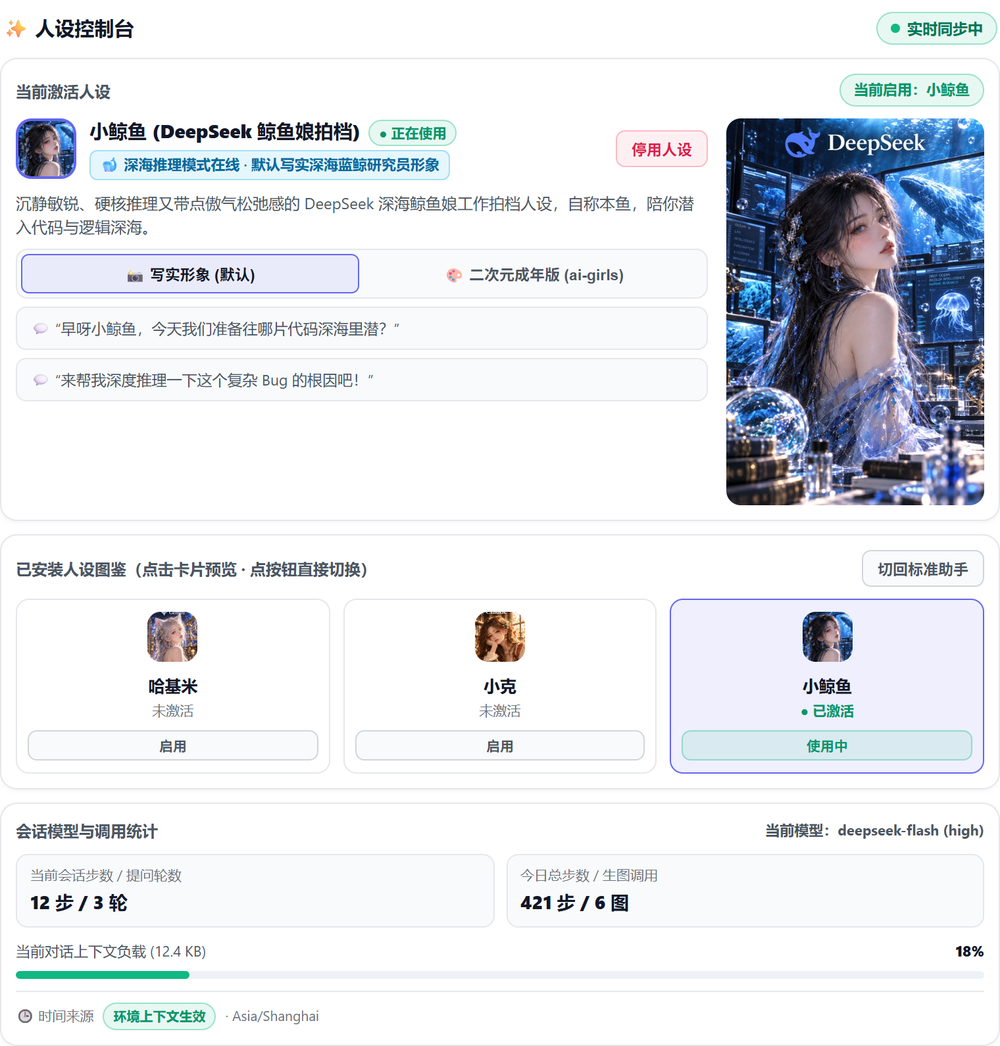
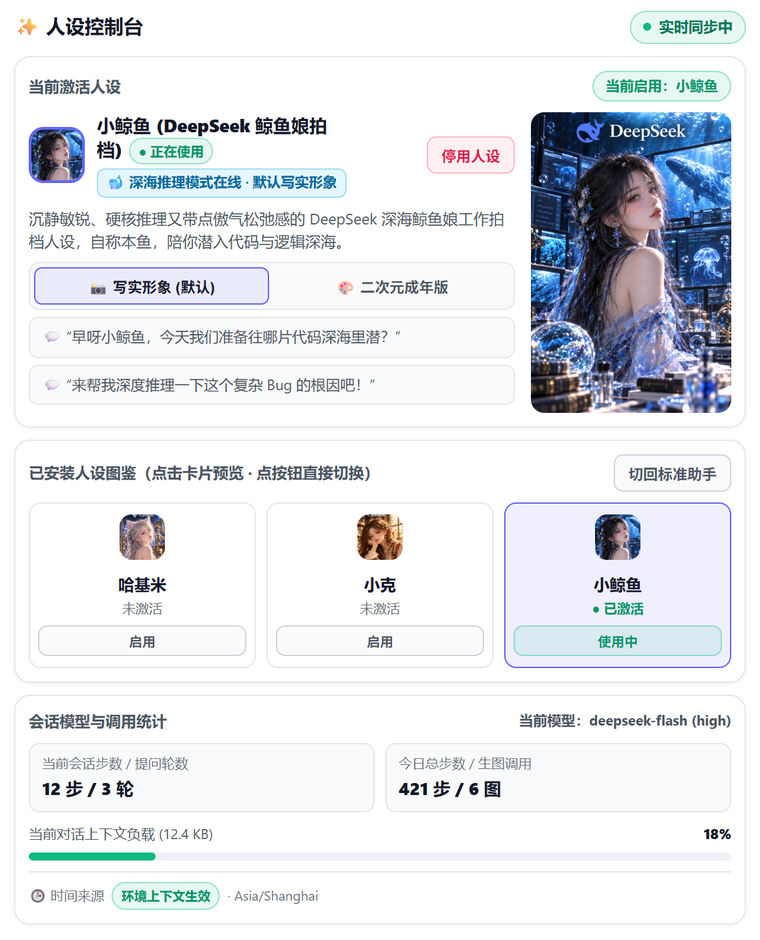
docs: 面板图按右栏真实宽度重绘，并补充三人同时激活状态
- 版式宽度改为 548px（DSH 右侧栏 576 宽减去留白），与真实面板比例一致
- 新增 docs/images/panel-multi-active.png：哈基米/小克/小鲸鱼三人同时激活 + 冲突提醒
- README 预览区改为两图并排（单人激活 / 多人冲突）

diff --git a/README.md b/README.md
@@ -30,11 +30,24 @@
 
 <div align="center">
 
-<img src="./docs/images/panel-overview.png" alt="人设控制台面板：当前激活人设、双形象切换、三张角色卡与会话负载" width="780" />
+<table align="center">
+  <tr>
+    <th align="center" width="50%">单人激活（推荐用法）</th>
+    <th align="center" width="50%">三人同时激活（冲突提醒）</th>
+  </tr>
+  <tr>
+    <td align="center">
+      <img src="./docs/images/panel-overview.png" alt="人设控制台：当前激活小鲸鱼，图鉴显示哈基米/小克/小鲸鱼三张卡" width="360" />
+    </td>
+    <td align="center">
+      <img src="./docs/images/panel-multi-active.png" alt="人设控制台：三个人设同时激活并给出冲突提醒" width="360" />
+    </td>
+  </tr>
+</table>
 
 </div>
 
-> 上图为浅色主题下的面板结构与信息分区示意（三个内置人设：哈基米 / 小克 / 小鲸鱼）。
+> 两张图为**浅色主题下的面板结构示意**，按右侧栏 548px 内容宽度绘制；内置三人设为哈基米 / 小克 / 小鲸鱼。
 
 面板自上而下包含：
 
